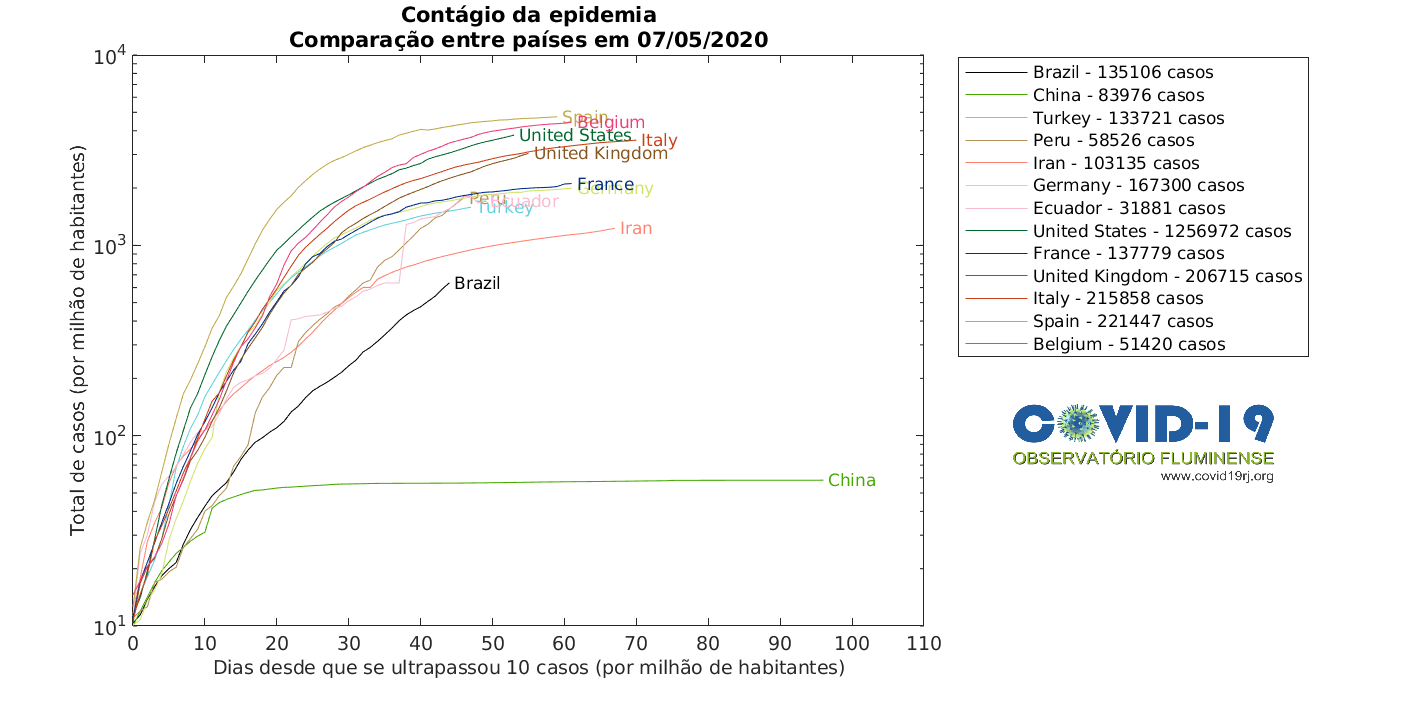
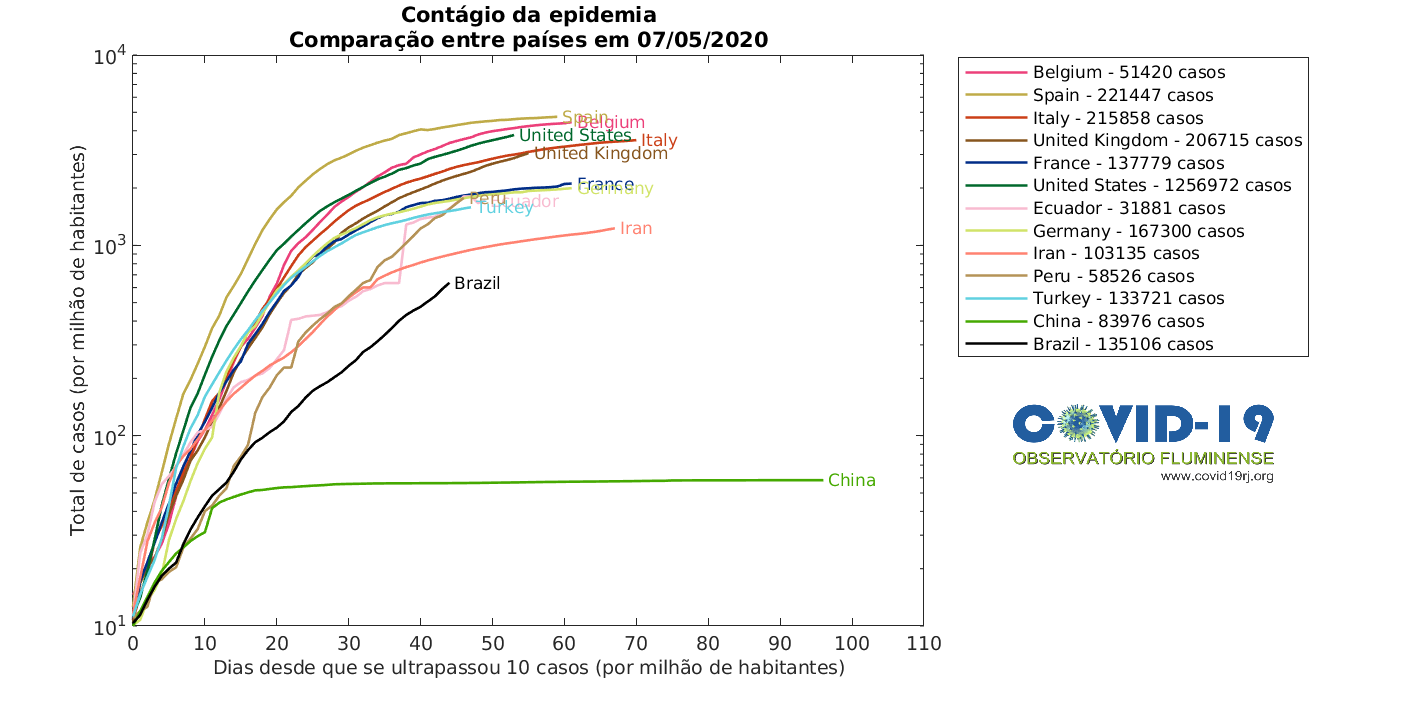
Add files via upload
Melhorando a visualização

diff --git a/Monitoramento/World/covid_mundo_pm.m b/Monitoramento/World/covid_mundo_pm.m
@@ -44,7 +44,7 @@ name = 'paises';
 all_data = readtable('owid-covid-data.csv');
 data = table2array(all_data(:,4:end));
 
-for( init = 1:1:13)
+for( init = 13:-1:1)
 
 clearvars -except init all_data data name 
 
@@ -147,7 +147,7 @@ fonte_location = 8;
 figure (1);
  n = max(max(size(tot_deaths_pmX)));
  days = 0:1:n-1;
- fig=semilogy(days,tot_deaths_pmX,'DisplayName',[country,' - ',num2str(max(tot_deaths)),' mortes'],"color",color);
+ fig=semilogy(days,tot_deaths_pmX,'DisplayName',[country,' - ',num2str(max(tot_deaths)),' mortes'],"color",color,'LineWidth', 1.25);
  hold on;
  text (n-1, tot_deaths_pmX(n,1), [' ',country],'FontSize',fonte_location,"color",color);
 
@@ -158,7 +158,7 @@ figure (2);
 
  n = max(max(size(tot_cases_pmX)));
  days = 0:1:n-1;
- fig=semilogy(days,tot_cases_pmX,'DisplayName',[country,' - ',num2str(max(tot_cases)),' casos'],"color",color);
+ fig=semilogy(days,tot_cases_pmX,'DisplayName',[country,' - ',num2str(max(tot_cases)),' casos'],"color",color,'LineWidth', 1.25);
  hold on;
  text (n-1, tot_cases_pmX(n,1), [' ',country],'FontSize',fonte_location,"color",color);
 
@@ -166,7 +166,7 @@ figure (2);
 %Plotar novas mortes X total de mortes (por milhao de hab.)
 figure (3);
  n = max(max(size(tot_deaths_pm)));
- fig=loglog(tot_deaths_pm,new_deaths7_pm,'DisplayName',[country,' - ',num2str(max(tot_deaths)),' mortes'],"color",color);
+ fig=loglog(tot_deaths_pm,new_deaths7_pm,'DisplayName',[country,' - ',num2str(max(tot_deaths)),' mortes'],"color",color,'LineWidth', 1.25);
  hold on;
  text (tot_deaths_pm(n,1), new_deaths7_pm(n,1), [' ',country],'FontSize',fonte_location,"color",color);
 
@@ -174,7 +174,7 @@ figure (3);
 %Plotar novos casos X total de casos (por milhao de hab.)
 figure (4);
  n = max(max(size(tot_cases_pm)));
- fig=loglog(tot_cases_pm,new_cases7_pm,'DisplayName',[country,' - ',num2str(max(tot_cases)),' casos'],"color",color);
+ fig=loglog(tot_cases_pm,new_cases7_pm,'DisplayName',[country,' - ',num2str(max(tot_cases)),' casos'],"color",color,'LineWidth', 1.25);
  hold on;
  text (tot_cases_pm(n,1), new_cases7_pm(n,1), [' ',country],'FontSize',fonte_location,"color",color);
 
@@ -286,5 +286,5 @@ set(ha2,'handlevisibility','off','visible','off')
 
 saveas(gcf,[name,'_informativo-mortes-pm_',datestr(end_time,29),'.png']);
 
-
+close all
 

diff --git a/Monitoramento/World/covid_mundo_abs.m b/Monitoramento/World/covid_mundo_abs.m
@@ -40,7 +40,7 @@ name = 'paises';
 all_data = readtable('owid-covid-data.csv');
 data = table2array(all_data(:,4:end));
 
-for( init = 1:1:13)
+for( init = 13:-1:1)
 
 clearvars -except init all_data data name 
 
@@ -143,7 +143,7 @@ fonte_location = 8;
 figure (1);
  n = max(max(size(tot_deaths_X)));
  days = 0:1:n-1;
- fig=semilogy(days,tot_deaths_X,'DisplayName',[country,' - ',num2str(max(tot_deaths)),' mortes'],"color",color);
+ fig=semilogy(days,tot_deaths_X,'DisplayName',[country,' - ',num2str(max(tot_deaths)),' mortes'],"color",color,'LineWidth', 1.25);
  hold on;
  text (n-1, tot_deaths_X(n,1), [' ',country],'FontSize',fonte_location,"color",color);
 
@@ -154,7 +154,7 @@ figure (2);
 
  n = max(max(size(tot_cases_X)));
  days = 0:1:n-1;
- fig=semilogy(days,tot_cases_X,'DisplayName',[country,' - ',num2str(max(tot_cases)),' casos'],"color",color);
+ fig=semilogy(days,tot_cases_X,'DisplayName',[country,' - ',num2str(max(tot_cases)),' casos'],"color",color,'LineWidth', 1.25);
  hold on;
  text (n-1, tot_cases_X(n,1), [' ',country],'FontSize',fonte_location,"color",color);
 
@@ -162,7 +162,7 @@ figure (2);
 %Plotar novas mortes X total de mortes (por milhao de hab.)
 figure (3);
  n = max(max(size(tot_deaths)));
- fig=loglog(tot_deaths,new_deaths7,'DisplayName',[country,' - ',num2str(max(tot_deaths)),' mortes'],"color",color);
+ fig=loglog(tot_deaths,new_deaths7,'DisplayName',[country,' - ',num2str(max(tot_deaths)),' mortes'],"color",color,'LineWidth', 1.25);
  hold on;
  text (tot_deaths(n,1), new_deaths7(n,1), [' ',country],'FontSize',fonte_location,"color",color);
 
@@ -170,7 +170,7 @@ figure (3);
 %Plotar novos casos X total de casos (por milhao de hab.)
 figure (4);
  n = max(max(size(tot_cases)));
- fig=loglog(tot_cases,new_cases7,'DisplayName',[country,' - ',num2str(max(tot_cases)),' casos'],"color",color);
+ fig=loglog(tot_cases,new_cases7,'DisplayName',[country,' - ',num2str(max(tot_cases)),' casos'],"color",color,'LineWidth', 1.25);
  hold on;
  text (tot_cases(n,1), new_cases7(n,1), [' ',country],'FontSize',fonte_location,"color",color);
 
@@ -316,4 +316,5 @@ set(ha2,'handlevisibility','off','visible','off')
 
 saveas(gcf,[name,'_informativo-casos-abs_',datestr(end_time,29),'.png']);
 
+close all
 
